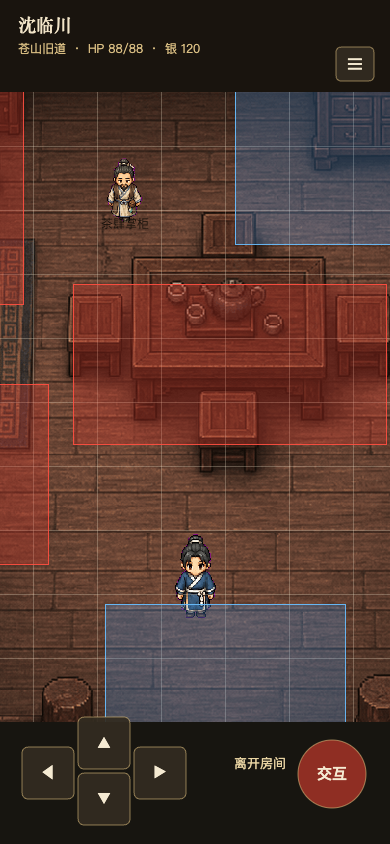
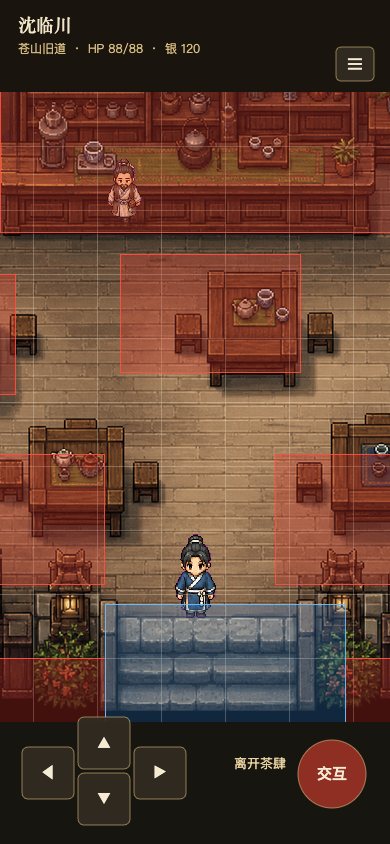
feat: replace WeChat map art with imagegen assets

diff --git a/wechat-minigame/js/config.js b/wechat-minigame/js/config.js
@@ -82,6 +82,50 @@ const ROOM_TRIGGERS = [
   { id: "desk", x: 650, y: 100, width: 285, height: 190, label: "查看账册" }
 ];
 
+const APOTHECARY_COLLISIONS = [
+  { x: 0, y: 0, width: 1280, height: 78 },
+  { x: 0, y: 0, width: 40, height: 768 },
+  { x: 1240, y: 0, width: 40, height: 768 },
+  { x: 0, y: 704, width: 520, height: 64 },
+  { x: 760, y: 704, width: 520, height: 64 },
+  { x: 48, y: 84, width: 292, height: 460 },
+  { x: 350, y: 84, width: 590, height: 150 },
+  { x: 340, y: 260, width: 560, height: 104 },
+  { x: 980, y: 84, width: 230, height: 420 },
+  { x: 820, y: 430, width: 240, height: 176 },
+  { x: 430, y: 650, width: 96, height: 80 },
+  { x: 760, y: 650, width: 96, height: 80 }
+];
+
+const APOTHECARY_TRIGGERS = [
+  { id: "roomExit", x: 520, y: 650, width: 240, height: 118, label: "离开百草铺" },
+  { id: "wardrobe", x: 970, y: 105, width: 230, height: 260, label: "搜索药柜" },
+  { id: "desk", x: 580, y: 210, width: 300, height: 160, label: "查看药方" }
+];
+
+const TEAHOUSE_COLLISIONS = [
+  { x: 0, y: 0, width: 1280, height: 78 },
+  { x: 0, y: 0, width: 40, height: 768 },
+  { x: 1240, y: 0, width: 40, height: 768 },
+  { x: 0, y: 704, width: 520, height: 64 },
+  { x: 760, y: 704, width: 520, height: 64 },
+  { x: 60, y: 82, width: 340, height: 250 },
+  { x: 415, y: 110, width: 560, height: 168 },
+  { x: 1040, y: 84, width: 170, height: 440 },
+  { x: 250, y: 320, width: 180, height: 120 },
+  { x: 535, y: 300, width: 180, height: 118 },
+  { x: 820, y: 320, width: 180, height: 118 },
+  { x: 335, y: 500, width: 184, height: 130 },
+  { x: 690, y: 500, width: 184, height: 130 },
+  { x: 920, y: 595, width: 255, height: 130 }
+];
+
+const TEAHOUSE_TRIGGERS = [
+  { id: "roomExit", x: 520, y: 650, width: 240, height: 118, label: "离开茶肆" },
+  { id: "wardrobe", x: 100, y: 255, width: 180, height: 120, label: "搜索茶箱" },
+  { id: "desk", x: 850, y: 100, width: 220, height: 170, label: "查看告示" }
+];
+
 const MAPS = {
   world: {
     id: "world",
@@ -136,8 +180,8 @@ const MAPS = {
     height: 768,
     spawn: { x: 610, y: 650 },
     exitTo: { mapId: "world", spawn: { x: 3370, y: 2580 }, label: "离开百草铺" },
-    collisions: ROOM_COLLISIONS,
-    triggers: ROOM_TRIGGERS,
+    collisions: APOTHECARY_COLLISIONS,
+    triggers: APOTHECARY_TRIGGERS,
     npcs: [{ id: "vendor", name: "药摊老人", sprite: "vendor", x: 540, y: 260, direction: "down" }]
   },
   teahouseRoom: {
@@ -147,8 +191,8 @@ const MAPS = {
     height: 768,
     spawn: { x: 610, y: 650 },
     exitTo: { mapId: "world", spawn: { x: 2320, y: 1320 }, label: "离开松风茶肆" },
-    collisions: ROOM_COLLISIONS,
-    triggers: ROOM_TRIGGERS,
+    collisions: TEAHOUSE_COLLISIONS,
+    triggers: TEAHOUSE_TRIGGERS,
     npcs: [{ id: "keeper", name: "茶肆掌柜", sprite: "keeper", x: 540, y: 260, direction: "down" }]
   }
 };

diff --git a/WECHAT_MINIGAME_MEMORY.md b/WECHAT_MINIGAME_MEMORY.md
@@ -71,6 +71,7 @@ lsof -nP -iTCP:4174 -sTCP:LISTEN
 - 临时脚本生成的 `battle-loop.wav` 只能当占位音轨。用户要求 Suno 正式战斗 BGM 时，不要在最终说明里把这个占位 wav 说成 Suno 成品。
 - 资产脚本生成 WAV 时必须用确定性噪声，不要直接用 `Math.random()`，否则每次 `npm run wechat:assets` 都会产生无意义二进制 diff。
 - 房间入口要配置成“门前触发区 + exitTo 回到原地图坐标”，不要把进入房间逻辑写死在某一个客栈分支里；新增房间后同步扩展地图 debug 截图点。
+- imagegen 生成的正式地图/房间原图要先保存到 `assets/generated/...`，再由 `scripts/copy-wechat-assets.mjs` 压缩到 `wechat-minigame/*-pack/`。不要只手动覆盖微信运行包，否则下一次 `npm run wechat:assets` 会把图刷回旧版本。
 
 ## 微信开发者工具踩坑
 
